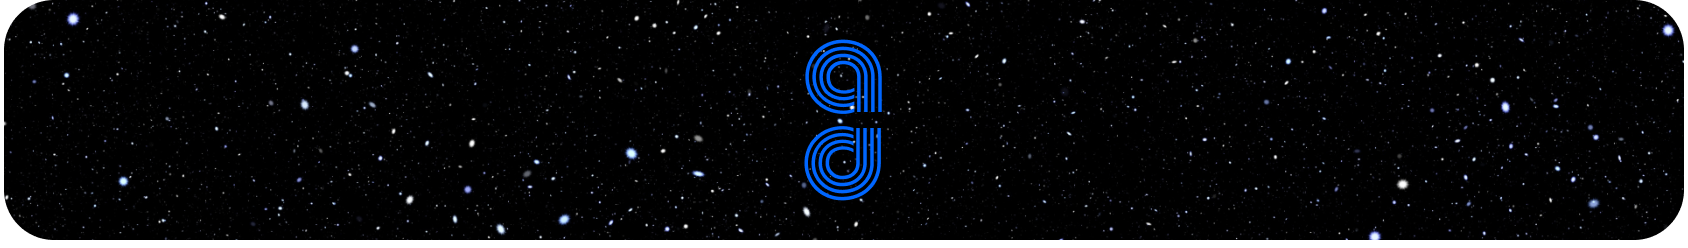
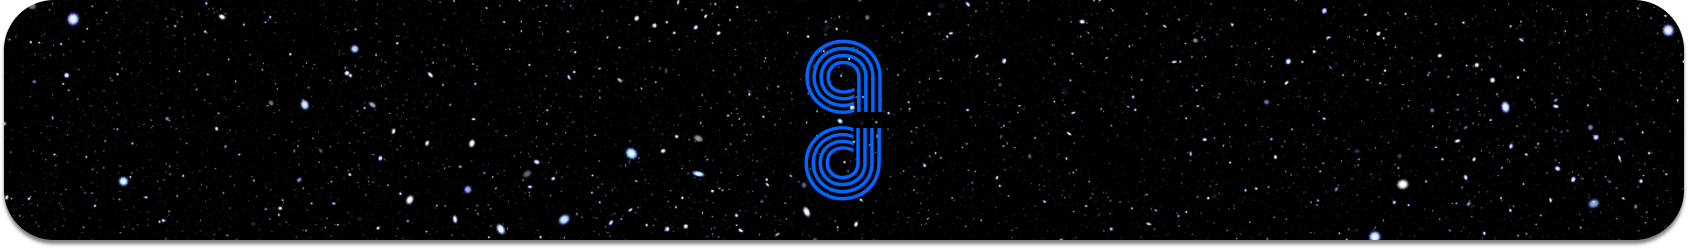
updated readme.md

Changed region(s): [[0.0, 0.9032, 0.9858, 1.0], [0.9858, 0.8185, 1.0, 0.9315]]

diff --git a/README.md b/README.md
@@ -1,4 +1,4 @@
-<h1 align="center"><img src="https://github.com/thezillionaireboy/thezillionaireboy/blob/main/img/profile_banner.png"></h1>
+<h1 align="center"><img src="https://github.com/thezillionaireboy/thezillionaireboy/blob/main/img/profile-banner.png"></h1>
 
 <h1 align="center">Hello There! :wave:</h1>
 
